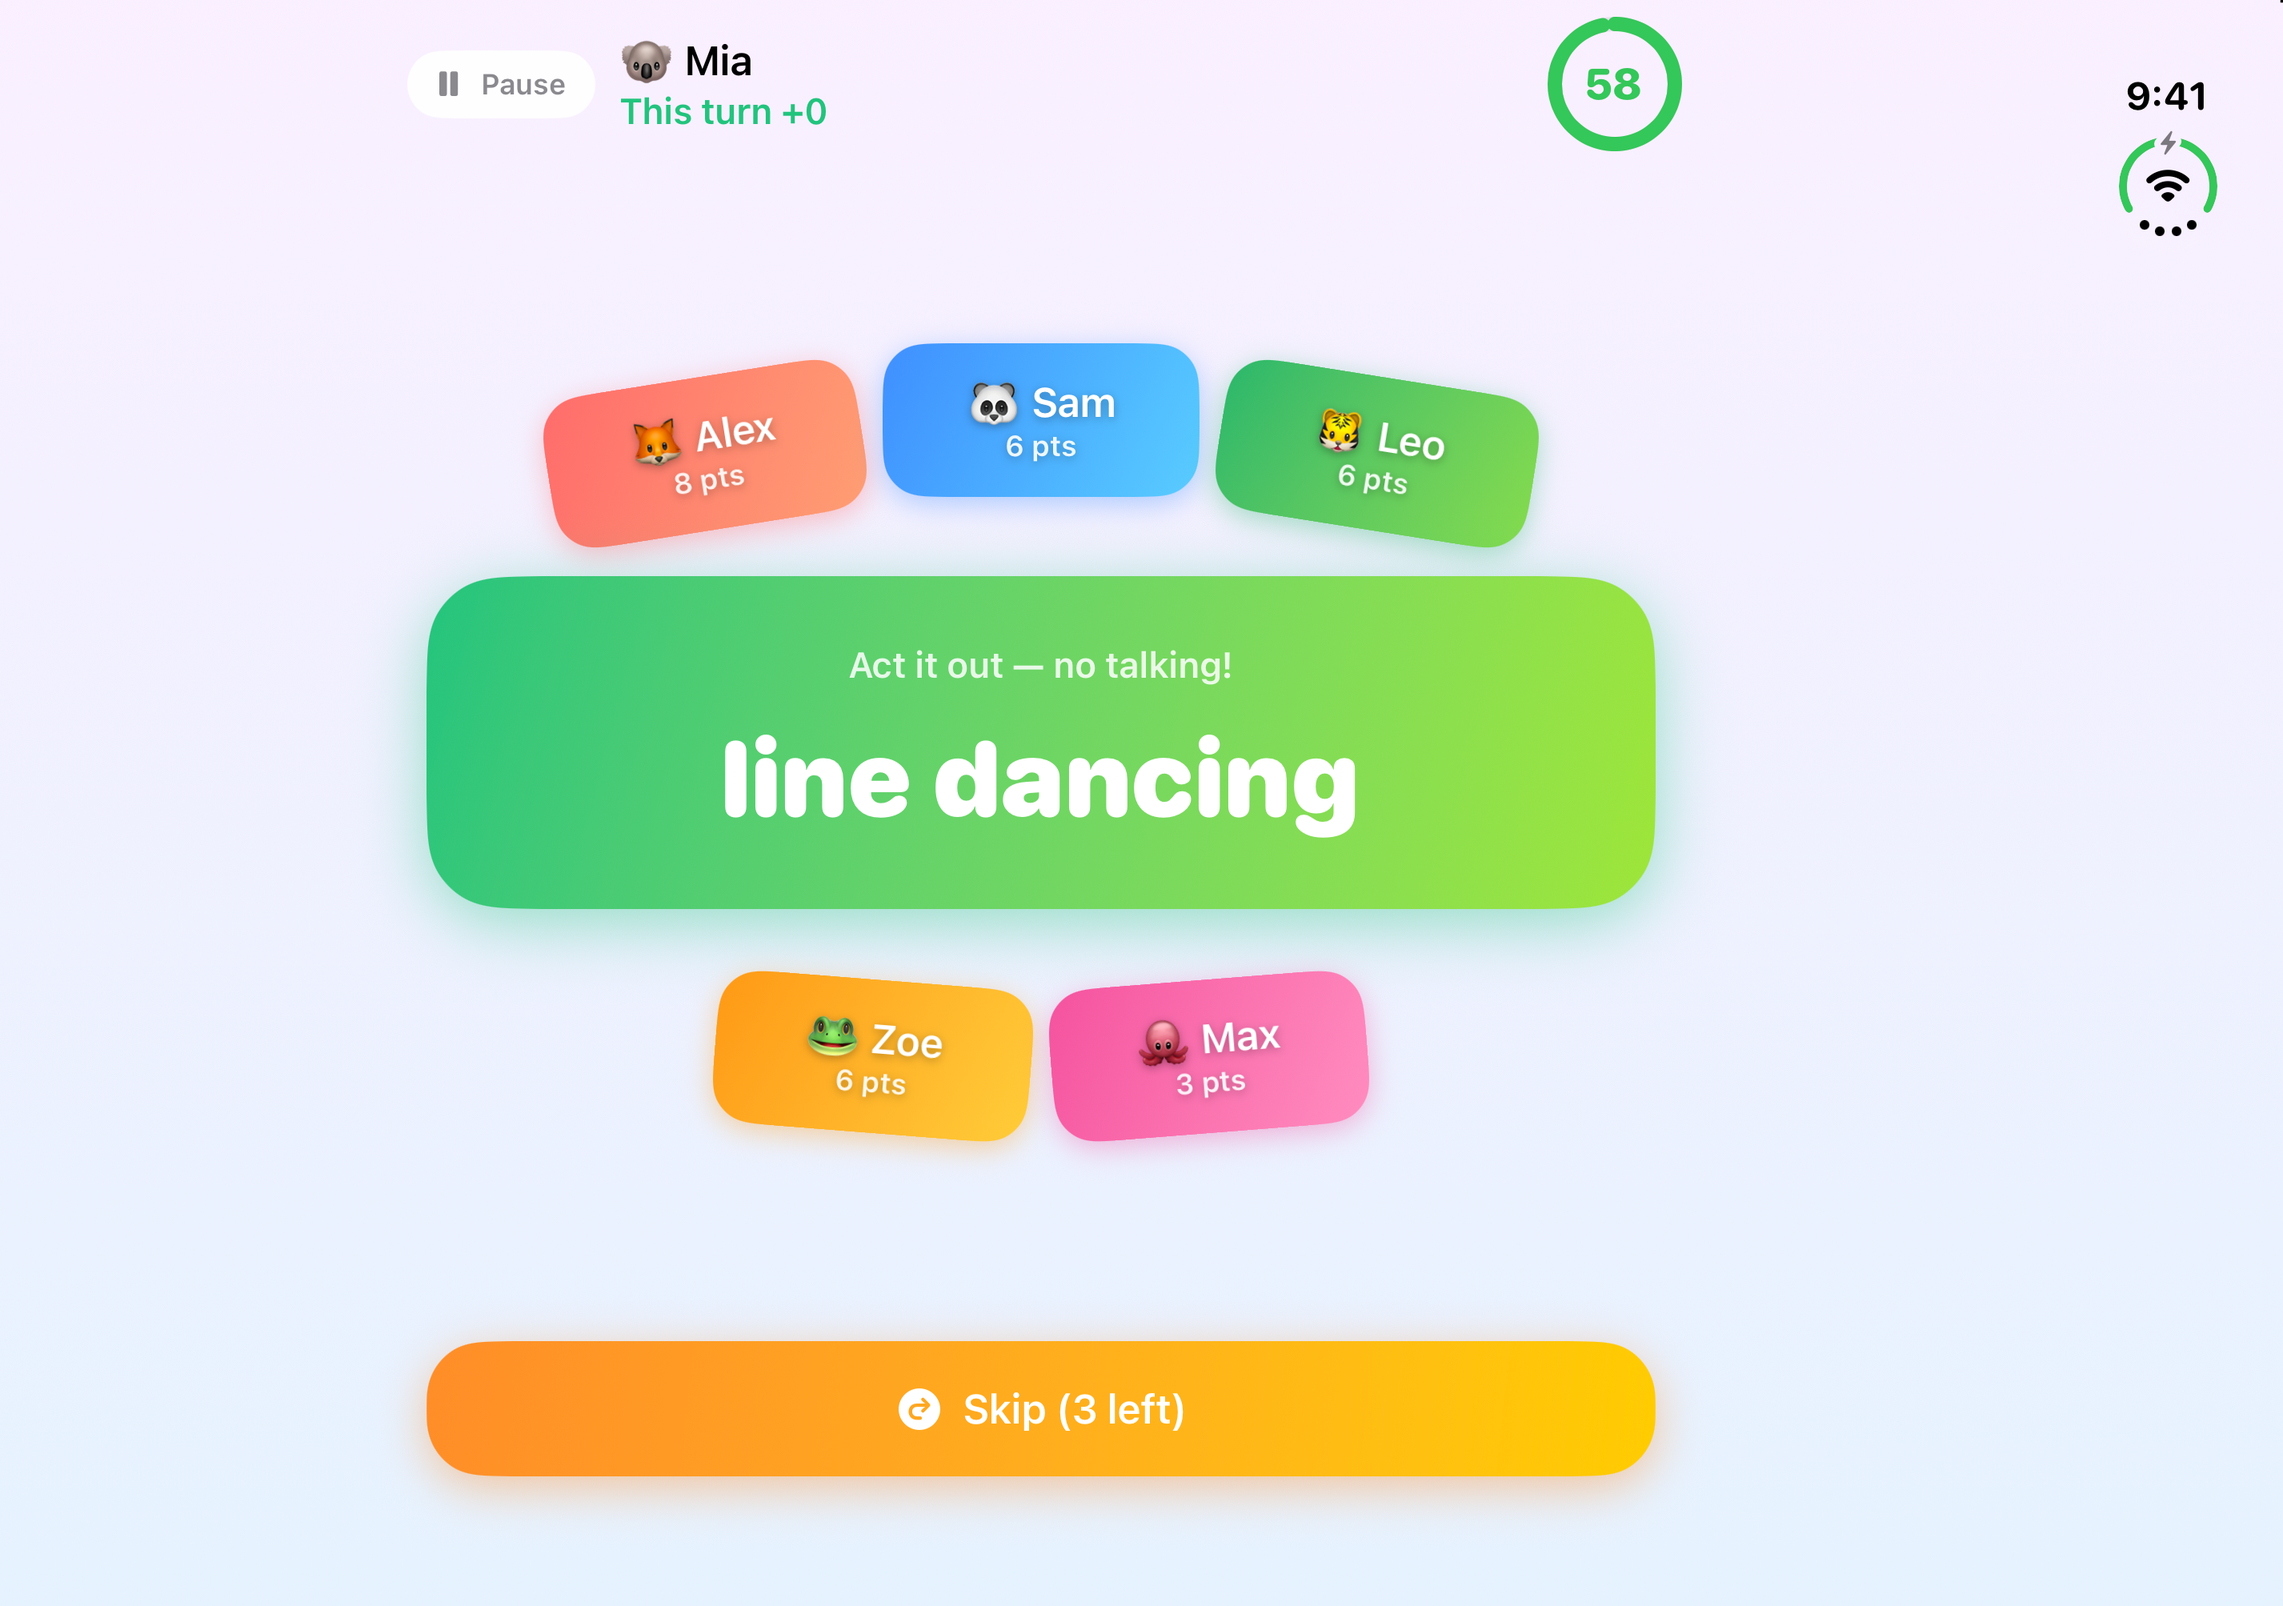
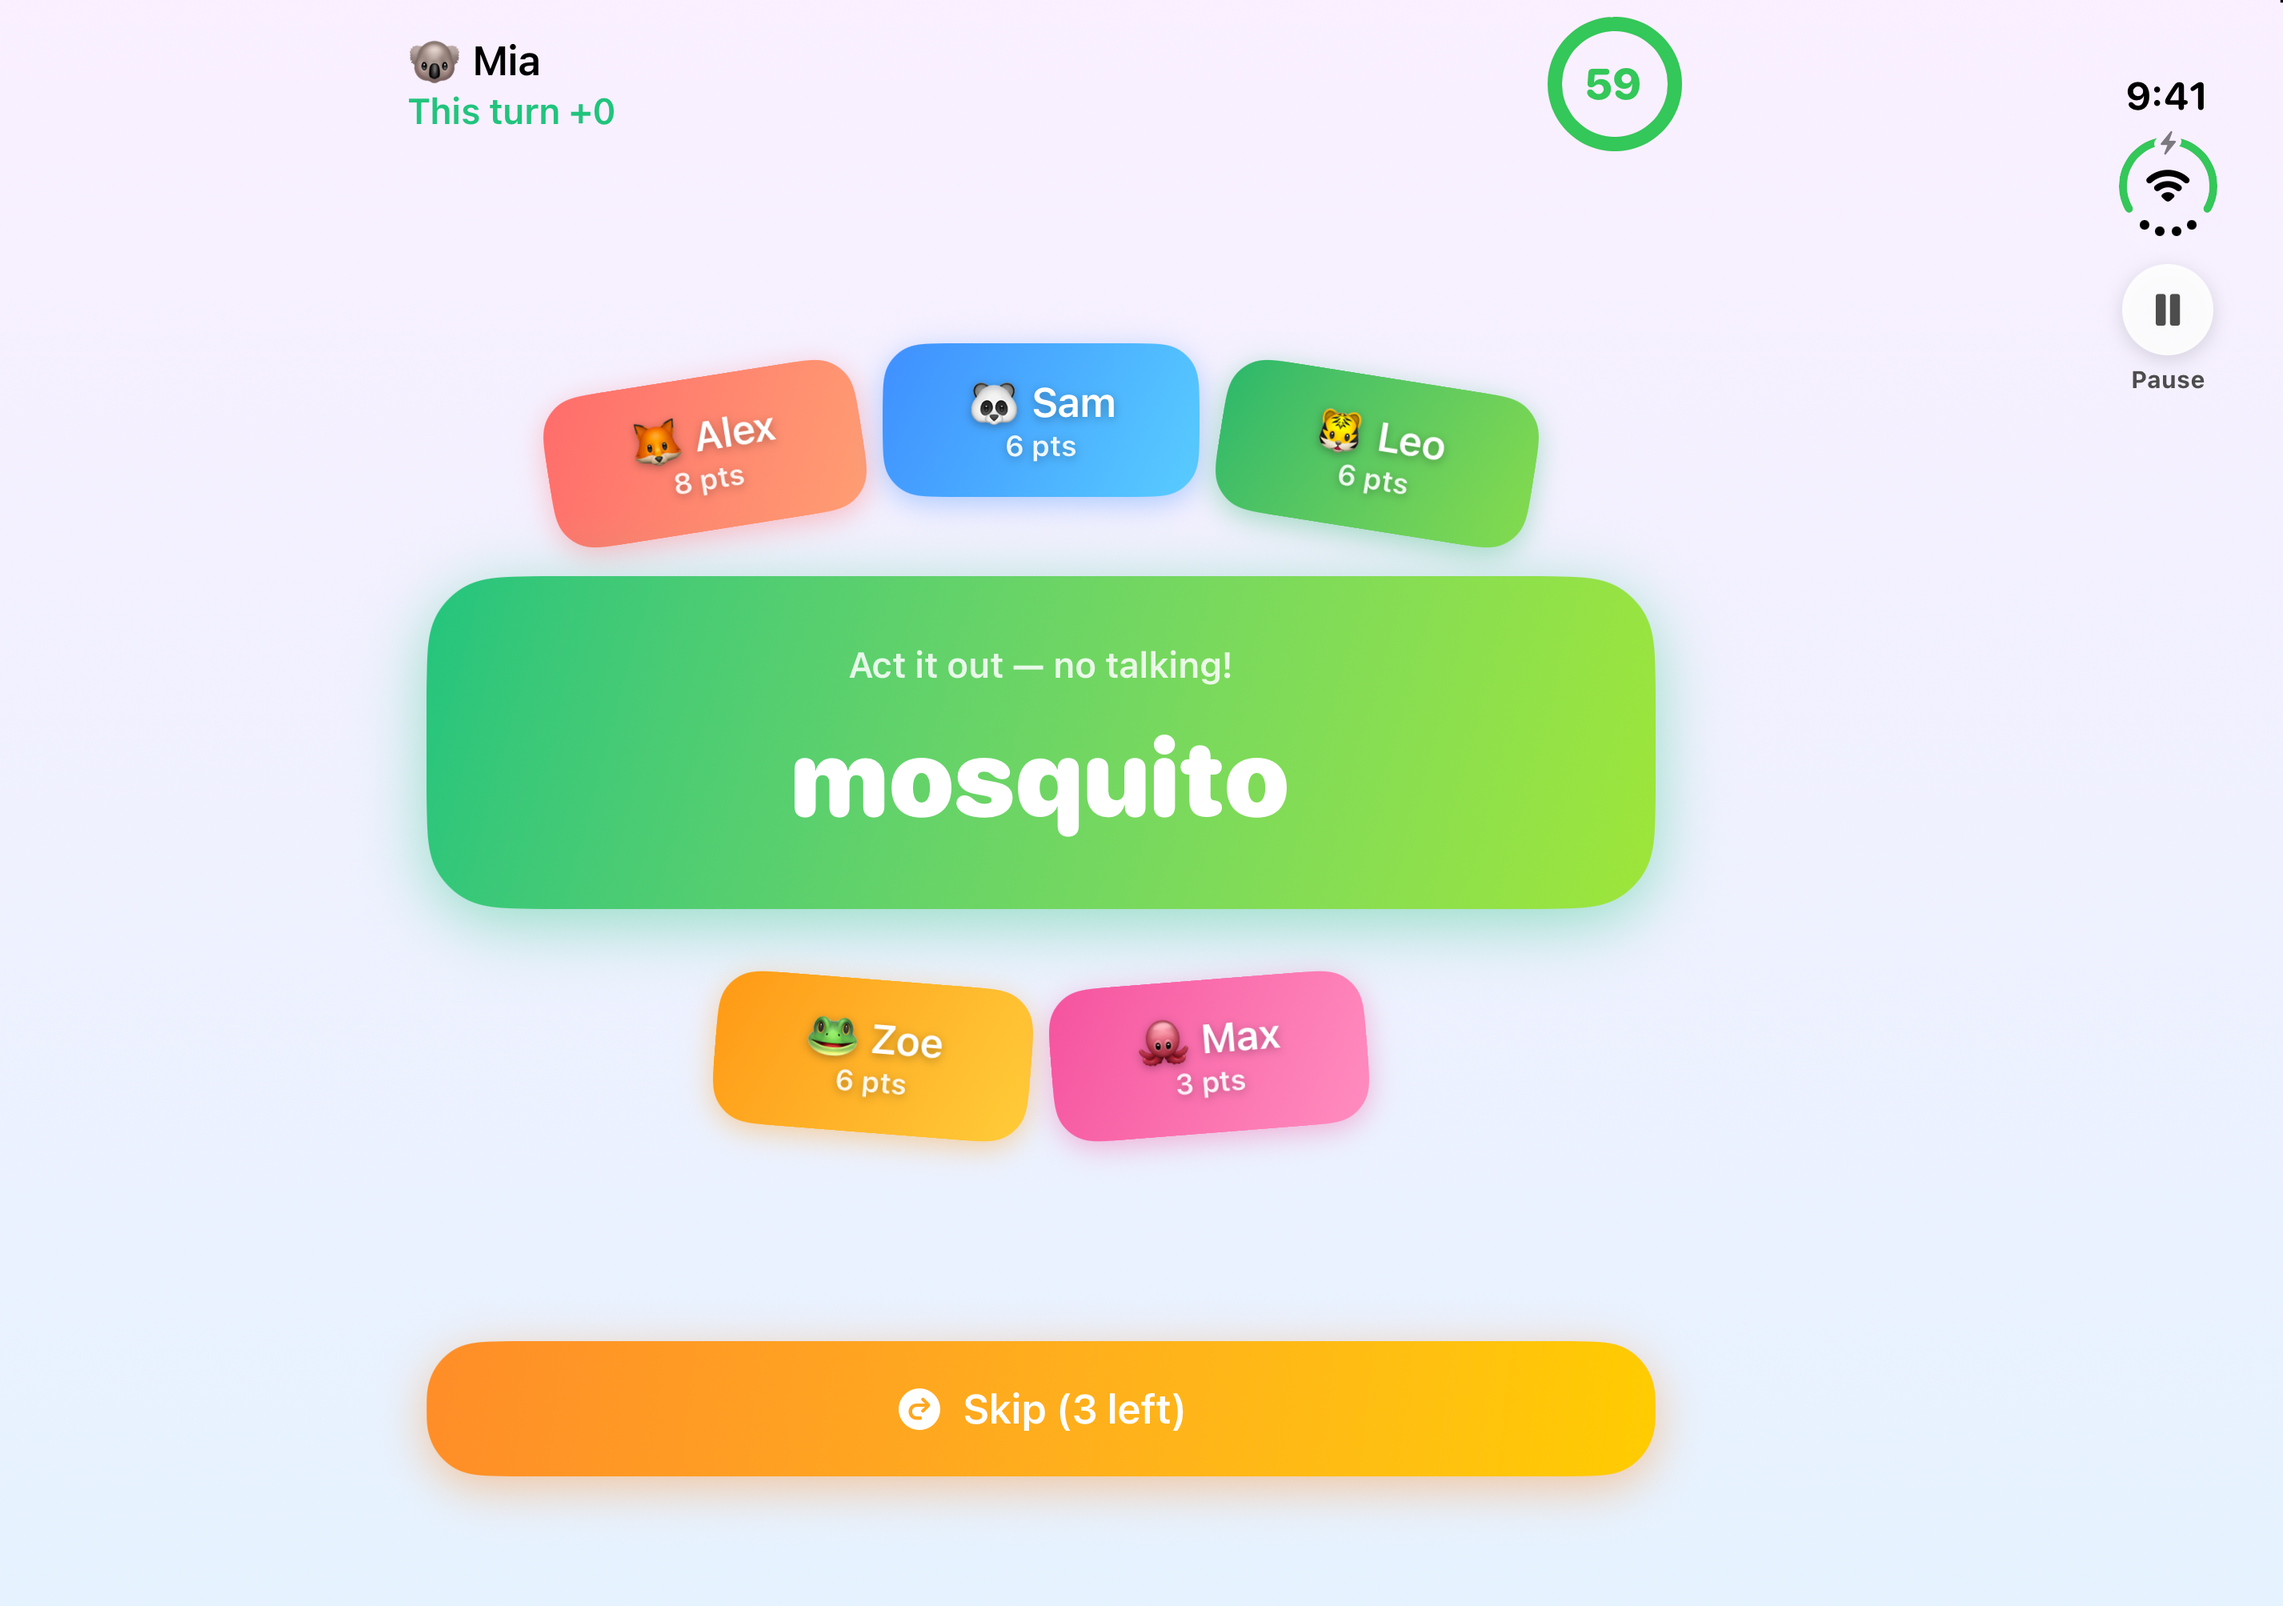
iPhone Duo: Pause moves into the status-bar strip
Both Duo screens put the time and Wi-Fi in a vertical strip along one
edge and leave the rest of it empty, while Pause floated at the top-left
of the centred content column. When the safe area has a strip at least
36pt wide, RootView now draws Pause there (icon over label, lined up
under the status icons) and the in-page buttons step aside; same dialog,
same pause-the-clock behaviour. Phones have no strip and keep Pause in
the top-left corner.

Screenshots/duo re-captured with the new placement.

Changed region(s): [[0.312, 0.4634, 0.5927, 0.5252], [0.156, 0.0309, 0.3743, 0.0927], [0.9359, 0.1854, 0.9671, 0.2471]]

diff --git a/PartyRelay/Views/SharedUI.swift b/PartyRelay/Views/SharedUI.swift
@@ -211,31 +211,78 @@ struct ScoreBadge: View {
 
 // MARK: - 返回主页按钮（所有游戏中页面顶部，二次确认后才真的退出）
 
+// MARK: - 侧边栏里的暂停键（iPhone Duo）
+
+/// 屏幕一侧有没有整条留给系统状态栏的竖条，有的话多宽。
+/// iPhone Duo 的两块屏都把时间、Wi-Fi 竖着放在右边一条里，下面整段是空的；
+/// 暂停键挪进这条里，不再浮在居中内容列的左上角。普通手机为 0，暂停键照旧在左上角
+private struct PauseSidebarWidthKey: EnvironmentKey {
+    static let defaultValue: CGFloat = 0
+}
+
+extension EnvironmentValues {
+    var pauseSidebarWidth: CGFloat {
+        get { self[PauseSidebarWidthKey.self] }
+        set { self[PauseSidebarWidthKey.self] = newValue }
+    }
+}
+
 struct HomeExitButton: View {
+    enum Placement { case inline, sidebar }
+
     @EnvironmentObject var store: GameStore
+    @Environment(\.pauseSidebarWidth) private var sidebarWidth
     /// 深色/彩色背景上用浅色描边样式
     var light: Bool = false
+    var placement: Placement = .inline
     @State private var showConfirm = false
 
     /// 只有正在猜词的那一遍能重开；转盘、交接、结算页上没有「小局」可重开
     private var canRestartTurn: Bool { store.phase == .playing }
 
     var body: some View {
+        // 有侧边栏时，页面里的那颗不画，由 RootView 在侧边栏里画一颗（同一个弹窗逻辑）
+        if placement == .inline && sidebarWidth > 0 {
+            EmptyView()
+        } else {
+            button
+        }
+    }
+
+    private var button: some View {
         Button {
             FeedbackManager.shared.tap()
             showConfirm = true
         } label: {
-            Label(L("common.pause"), systemImage: "pause.fill")
-                .font(.caption.bold())
-                .foregroundStyle(light ? .white : Color.secondary)
-                .padding(.horizontal, 12)
-                .padding(.vertical, 7)
-                .background(
-                    Capsule()
-                        .fill(light ? AnyShapeStyle(.white.opacity(0.22))
-                                    : AnyShapeStyle(.white.opacity(0.85)))
-                        .overlay(Capsule().stroke(light ? .white.opacity(0.5) : .clear, lineWidth: 1))
-                )
+            switch placement {
+            case .inline:
+                Label(L("common.pause"), systemImage: "pause.fill")
+                    .font(.caption.bold())
+                    .foregroundStyle(light ? .white : Color.secondary)
+                    .padding(.horizontal, 12)
+                    .padding(.vertical, 7)
+                    .background(
+                        Capsule()
+                            .fill(light ? AnyShapeStyle(.white.opacity(0.22))
+                                        : AnyShapeStyle(.white.opacity(0.85)))
+                            .overlay(Capsule().stroke(light ? .white.opacity(0.5) : .clear, lineWidth: 1))
+                    )
+            case .sidebar:
+                // 竖条只有四五十点宽：图标在上、字在下
+                VStack(spacing: 4) {
+                    Image(systemName: "pause.fill")
+                        .font(.system(size: 15, weight: .bold))
+                        .frame(width: 38, height: 38)
+                        .background(Circle().fill(.white.opacity(0.9))
+                            .shadow(color: .black.opacity(0.15), radius: 4, y: 2))
+                    Text(L("common.pause"))
+                        .font(.system(size: 10, weight: .bold))
+                        .lineLimit(1)
+                        .minimumScaleFactor(0.7)
+                }
+                .foregroundStyle(Color(white: 0.3))
+                .frame(width: max(sidebarWidth - 4, 40))
+            }
         }
         .accessibilityIdentifier("backHome")
         // 用 alert 而不是 confirmationDialog：alert 一定会同时显示「取消」按钮。
@@ -266,17 +313,22 @@ struct HomeExitButton: View {
     }
 }
 
-/// 顶部只放一个返回主页按钮的行（用于原本没有顶栏的页面）
+/// 顶部只放一个暂停键的行（用于原本没有顶栏的页面）；暂停键在侧边栏时整行不占地方
 struct HomeExitBar: View {
+    @Environment(\.pauseSidebarWidth) private var sidebarWidth
     var light: Bool = false
 
     var body: some View {
-        HStack {
-            HomeExitButton(light: light)
-            Spacer()
+        if sidebarWidth > 0 {
+            Color.clear.frame(height: 10)
+        } else {
+            HStack {
+                HomeExitButton(light: light)
+                Spacer()
+            }
+            .padding(.horizontal, 16)
+            .padding(.top, 10)
         }
-        .padding(.horizontal, 16)
-        .padding(.top, 10)
     }
 }
 

diff --git a/PartyRelay/Views/RootView.swift b/PartyRelay/Views/RootView.swift
@@ -5,7 +5,33 @@ struct RootView: View {
     @ObservedObject var langManager = LanguageManager.shared
     @State private var showSettings = false
 
+    /// 系统状态栏竖条至少这么宽，才算「有侧边栏」（普通手机竖屏左右安全区是 0）
+    private static let sidebarMinWidth: CGFloat = 36
+
+    /// 页面上有暂停键的阶段（启动页、准备页没有）
+    private var showsPause: Bool { store.phase != .menu && store.phase != .home }
+
     var body: some View {
+        GeometryReader { geo in
+            let inset = max(geo.safeAreaInsets.trailing, geo.safeAreaInsets.leading)
+            let sidebar = inset >= Self.sidebarMinWidth ? inset : 0
+            let onLeft = geo.safeAreaInsets.leading > geo.safeAreaInsets.trailing
+            phaseView
+                .environment(\.pauseSidebarWidth, showsPause ? sidebar : 0)
+                .overlay(alignment: onLeft ? .topLeading : .topTrailing) {
+                    // 暂停键放进状态栏那一条，排在时间和 Wi-Fi 下面
+                    if showsPause && sidebar > 0 {
+                        HomeExitButton(placement: .sidebar)
+                            .environment(\.pauseSidebarWidth, sidebar)
+                            .frame(width: sidebar)
+                            // 系统把时间和 Wi-Fi 画得比竖条正中略往里 6pt，跟它们对齐
+                            .offset(x: onLeft ? -(sidebar - 6) : sidebar - 6, y: 110)
+                    }
+                }
+        }
+    }
+
+    private var phaseView: some View {
         Group {
             switch store.phase {
             case .menu:
